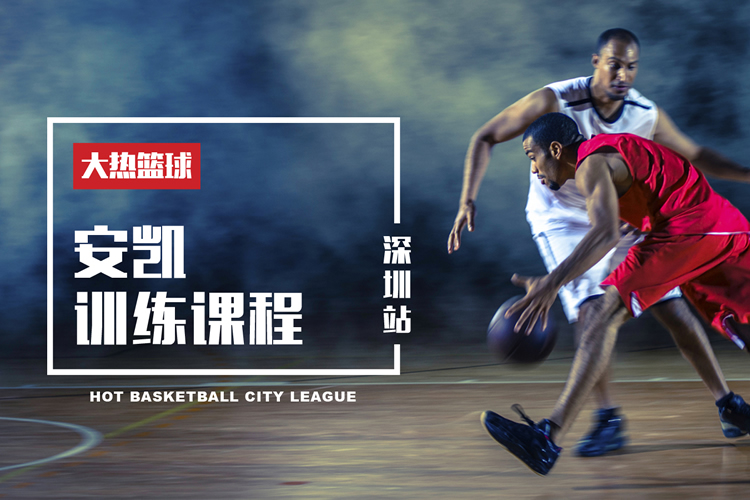
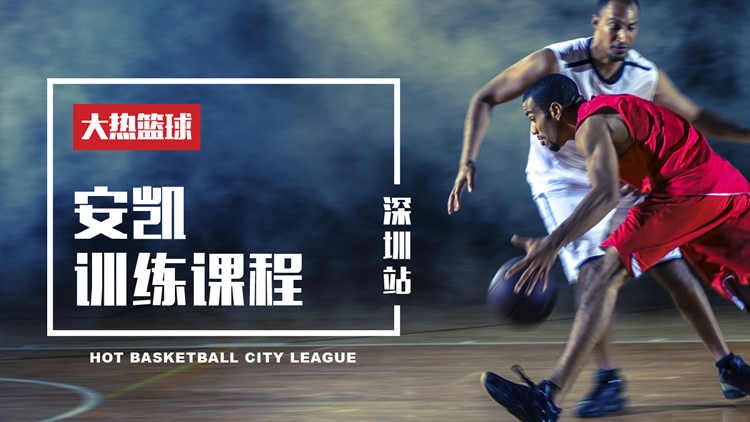
充值页面修改了li结构，我的页面添加了跳转判断，更新了首页banner图片

diff --git a/application/frontend/view/Member/index.html b/application/frontend/view/Member/index.html
@@ -23,7 +23,7 @@
 
     <div id="tabbar" class="mui-control-content mui-active coach">
         <!--设置页面-->
-        <div class="member-setup"><a href="{:url('member/memberSetup')}"><span class="icon iconfont icon-hotbasketball-Traini"></span></a></div>
+        <div class="member-setup goConfirm" data-href="{:url('member/memberSetup')}"><span class="icon iconfont icon-hotbasketball-Traini"></span></div>
         <!--操作模块-->
         <div class="coach-info">
             <ul class="mui-table-view mui-grid-view mui-grid-9">
@@ -51,91 +51,95 @@
         <!--图文导航-->
         <div class="nav-list mb">
             <ul class="mui-table-view mui-grid-view mui-grid-9 nav-list-frame">
-                <li class="mui-table-view-cell mui-media mui-col-xs-3 mui-col-sm-3 navli wd25"><a href="{:url('score/myScore',['member_id'=>$memberInfo['id']])}">
-                    <span class="icon iconfont icon-hotpc-member"></span>
-                    <div class="mui-media-body">我的积分</div>
-                </a></li>
-                <li class="mui-table-view-cell mui-media mui-col-xs-3 mui-col-sm-3 navli wd25"><a href="{:url('member/myWallet',['member_id'=>$memberInfo['id']])}">
-                    <span class="icon iconfont icon-hotbasketball-wage"></span>
-                    <div class="mui-media-body">我的余额</div>
-                </a></li>
-                <li class="mui-table-view-cell mui-media mui-col-xs-3 mui-col-sm-3 navli wd25"><a href="{:url('bill/billList',['member_id'=>$memberInfo['id']])}">
-                    <span class="icon iconfont icon-hotpc-Mall"></span>
-                    <div class="mui-media-body">我的订单</div>
-                </a></li>
-                <li class="mui-table-view-cell mui-media mui-col-xs-3 mui-col-sm-3 navli wd25"><a href="{:url('member/myGroup',['member_id'=>$memberInfo['id']])}">
-                    <span class="icon iconfont icon-hotpc-Teamsteward"></span>
-                    <div class="mui-media-body">我的组织</div>
-                </a></li>
+                <li class="mui-table-view-cell mui-media mui-col-xs-3 mui-col-sm-3 navli wd25">
+                    <div class="goConfirm" data-href="{:url('score/myScore',['member_id'=>$memberInfo['id']])}">
+                        <span class="icon iconfont icon-hotpc-member"></span>
+                        <div class="mui-media-body">我的积分</div>
+                    </div>
+                </li>
+                <li class="mui-table-view-cell mui-media mui-col-xs-3 mui-col-sm-3 navli wd25">
+                    <div class="goConfirm" data-href="{:url('member/myWallet',['member_id'=>$memberInfo['id']])}">
+                        <span class="icon iconfont icon-hotbasketball-wage"></span>
+                        <div class="mui-media-body">我的余额</div>
+                    </div>
+                </li>
+                <li class="mui-table-view-cell mui-media mui-col-xs-3 mui-col-sm-3 navli wd25">
+                    <div class="goConfirm" data-href="{:url('bill/billList',['member_id'=>$memberInfo['id']])}">
+                        <span class="icon iconfont icon-hotpc-Mall"></span>
+                        <div class="mui-media-body">我的订单</div>
+                    </div>
+                </li>
+                <li class="mui-table-view-cell mui-media mui-col-xs-3 mui-col-sm-3 navli wd25">
+                    <div class="goConfirm" data-href="{:url('member/myGroup',['member_id'=>$memberInfo['id']])}">
+                        <span class="icon iconfont icon-hotpc-Teamsteward"></span>
+                        <div class="mui-media-body">我的组织</div>
+                    </div>
+                </li>
             </ul>
         </div>
         <!--个人信息-->
         <ul class="mui-table-view list detalis-list border-b">
             <li class="mui-table-view-cell listli listinitial">
-                <a class="mui-navigate-right" href="{:url('member/memberInfo')}">
+                <div class="mui-navigate-right goConfirm" data-href="{:url('member/memberInfo')}">
                     个人资料
-                </a>
+                </div>
             </li>
             <li class="mui-table-view-cell listli listinitial">
-                <a class="mui-navigate-right" href="{:url('member/photoAlbum',['member_id'=>$memberInfo['id']])}">
+                <div class="mui-navigate-right goConfirm" data-href="{:url('member/photoAlbum',['member_id'=>$memberInfo['id']])}">
                     相册
-                </a>
+                </div>
             </li>
             <li class="mui-table-view-cell listli listinitial">
-                <a class="mui-navigate-right">
+                <div class="mui-navigate-right goConfirm">
                     邀请好友
-                </a>
+                </div>
             </li>
+            {gt name="memberInfo.id" value="0"}
+            <!--教练-->
+            {if condition="$coach"}
+            <li class="mui-table-view-cell listli listinitial ">
+                <div class="mui-navigate-right goConfirm" data-href="{:url('coach/updatecoach')}">教练员认证 <span>[{$coach.status}]</span></div>
+            </li>
+            {/if}
+
+            <!--创建训练营-->
+            {if condition="$camp"}
+            <li class="mui-table-view-cell listli listinitial ">
+                <div class="mui-navigate-right goConfirm" data-href="{:url('camp/campsetting', ['camp_id' => $camp['id']])}">训练营认证 <span>[{$camp.status}]</span></div>
+            </li>
+            {/if}
+            {/gt}
         </ul>
 
-        {gt name="memberInfo.id" value="0"}
-         <!--教练-->
-        {if condition="$coach"}
-        <ul class="mui-table-view list detalis-list">
-            <li class="mui-table-view-cell listli listinitial ">
-                <a class="mui-navigate-right" href="{:url('coach/updatecoach')}">教练员认证 [{$coach.status}]</a>
-            </li>
-        </ul>
-        {/if}
-
-        <!--创建训练营-->
-        {if condition="$camp"}
-        <ul class="mui-table-view list detalis-list">
-            <li class="mui-table-view-cell listli listinitial ">
-                <a class="mui-navigate-right" href="{:url('camp/campsetting', ['camp_id' => $camp['id']])}">训练营认证 [{$camp.status}]</a>
-            </li>
-        </ul>
-        {/if}
-        {/gt}
 
         <div class="page-header">
             <span class="course"><b>训练营身份</b></span>
         </div>
         <ul class="mui-table-view list detalis-list mt55">
             <li class="mui-table-view-cell listli listinitial ">
-                <a class="mui-navigate-right" href="{:url('member/myCamp',['type'=>5])}">
+                <div class="mui-navigate-right goConfirm" data-href="{:url('member/myCamp',['type'=>5])}">
                     粉丝
-                </a>
+                </div>
             </li>
             <li class="mui-table-view-cell listli listinitial ">
-                <a class="mui-navigate-right" href="{:url('member/myCamp',['type'=>1])}">
+                <div class="mui-navigate-right goConfirm" data-href="{:url('member/myCamp',['type'=>1])}">
                     学员
-                </a>
+                </div>
             </li>
             <li class="mui-table-view-cell listli listinitial">
-                <a class="mui-navigate-right" href="{:url('member/myCamp',['type'=>2])}">
+                <div class="mui-navigate-right goConfirm" data-href="{:url('member/myCamp',['type'=>2])}">
                     教练
-                </a>
+                </div>
             </li>
             <li class="mui-table-view-cell listli listinitial">
-                <a class="mui-navigate-right" href="{:url('member/myCamp',['type'=>3])}">
+                <div class="mui-navigate-right goConfirm" data-href="{:url('member/myCamp',['type'=>3])}">
                     管理员
-                </a>
+                </div>
             </li>
             <li class="mui-table-view-cell listli listinitial">
-                <a class="mui-navigate-right" href="{:url('member/myCamp',['type'=>4])}">
+                <div class="mui-navigate-right goConfirm" data-href="{:url('member/myCamp',['type'=>4])}">
                     营主
-                </a>
+                </div>
             </li>
         </ul>
 
@@ -145,9 +149,11 @@
     <!--底部导航-->
 {layout name="Layout/footer"}
 
+<input type="hidden" name="mid" value="{$mid}">
 </div>
 </body>
 <script src="/static/frontend/js/mui.min.js"></script>
+<script src="/static/frontend/js/jquery-3.2.1.min.js"></script>
 <script>
     //初始化
     mui.init({
@@ -158,5 +164,23 @@
     slider.slider({
         interval: 5000
     });
+
+    $(function () {
+
+        //搜索子页：搜索提交
+        $(".goConfirm").click(function () {
+            var goUrl = $(".goConfirm").attr("data-href");
+            if ( $('input[name=mid]').val()  == 0) {
+                var btnArray = ['取消', "<a href='{$fasturl}' style='color:#007aff'>前往完善</a>"];
+                mui.confirm('请先完善您的基本信息，以便进行后续操作，谢谢！', '提示', btnArray);
+            }else{
+                window.top.location.href = goUrl;
+            }
+        })
+
+    })
+
+
+
 </script>
 </html>

diff --git a/application/frontend/view/Member/charge.html b/application/frontend/view/Member/charge.html
@@ -24,27 +24,31 @@
 </header>
 <div class="mui-content">
 
-    <div class="list camp-list camp-lesson-list detalis-list coach">
-        <ul class="mui-table-view mb" style="overflow: hidden;">
-            <li class="mui-table-view-cell listli listinitial">
-                充值金额<input type="text" class="input" placeholder="￥0.00">
-            </li>
-            <li class="mui-table-view-cell listli listinitial">
-                支付方式
+    <div class="mt25">
+        <form action="" class="mui-input-group">
+            <div class="mui-input-row">
+                <label>充值金额</label>
+                <input type="text" class="input" placeholder="￥0.00">
+            </div>
+            <div class="mui-input-row">
+                <label>支付方式</label>
                 <span class="mui-navigate-right">
                         <select class="select" style="direction:rtl;width:33%">
                             <option>微信支付</option>
                             <option>银行卡支付</option>
                         </select>
-                    </span>
-            </li>
-            <div class="tjbtn tjbtn-next">
-                <button type="button" class="btn btn1">
-                    充值
-                </button>
+                </span>
             </div>
-        </ul>
+        </form>
+
+        <span class="tip-box user_hint mobile_hint"></span>
+        <div class="tjbtn tjbtn-next">
+            <button type="button" class="btn btn1">
+                充值
+            </button>
+        </div>
     </div>
+
 </div>
 
 </body>

diff --git a/application/frontend/view/Member/memberSetup.html b/application/frontend/view/Member/memberSetup.html
@@ -43,15 +43,15 @@
         </div>
         <ul class="mui-table-view  public-list">
             <li class="mui-table-view-cell listli listinitial">
-                <a href="#" class="mui-navigate-right">手机绑定<span>213551351</span>
+                <a href="#" class="mui-navigate-right">手机绑定<span>{$memberInfo['telephone']}</span>
                 </a>
             </li>
             <li class="mui-table-view-cell listli listinitial">
-                <a href="#" class="mui-navigate-right">微信绑定<span>微信昵称</span>
+                <a href="#" class="mui-navigate-right">微信绑定<span>{$memberInfo['nickname']}</span>
                 </a>
             </li>
             <li class="mui-table-view-cell listli listinitial">
-                <a href="#" class="mui-navigate-right">电子邮箱<span>31351315@qq.com</span>
+                <a href="#" class="mui-navigate-right">电子邮箱<span>{$memberInfo['email']}</span>
                 </a>
             </li>
             <li class="mui-table-view-cell listli listinitial">
